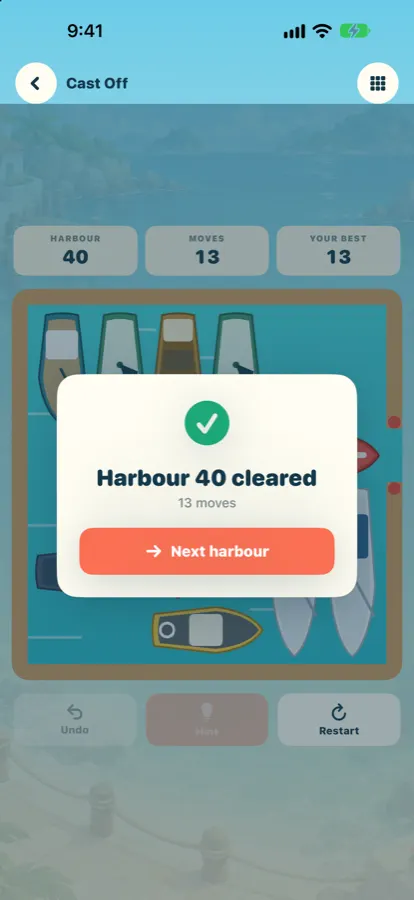
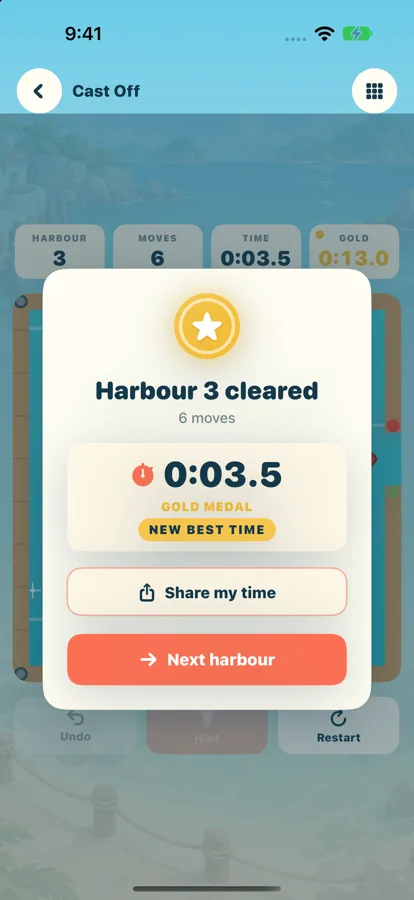
Dockside races the clock, Raccoon Raid gets the Golden Snack: new copy and screenshots

diff --git a/index.html b/index.html
@@ -574,9 +574,9 @@ html:not(.js) .app .close, html:not(.js) .app .bar, html:not(.js) .app .cover, h
   <div class="phone" id="phone">
     <div class="screen" id="screen">
       <div class="wall" aria-hidden="true"><i></i><i></i><i></i><i></i></div>
-      <button class="island" id="island" type="button" aria-label="Now testing: Raccoon Raid. Open it">
+      <button class="island" id="island" type="button" aria-label="New in Raccoon Raid: the Golden Snack. Open it">
         <span class="isl-compact" aria-hidden="true"><img src="assets/games/rr-icon.webp" alt=""><i class="live-dot"></i></span>
-        <span class="isl-full" aria-hidden="true"><img src="assets/games/rr-icon.webp" alt=""><span><small>Now testing</small><b>Raccoon Raid</b></span><span class="wave"><i></i><i></i><i></i><i></i></span></span>
+        <span class="isl-full" aria-hidden="true"><img src="assets/games/rr-icon.webp" alt=""><span><small>New: Golden Snack</small><b>Raccoon Raid</b></span><span class="wave"><i></i><i></i><i></i><i></i></span></span>
       </button>
       <div class="glare" id="glare" aria-hidden="true"></div>
       <div class="status" aria-hidden="true">
@@ -624,9 +624,9 @@ html:not(.js) .app .close, html:not(.js) .app .bar, html:not(.js) .app .cover, h
                   <h2 id="board-h">Release board</h2>
                   <ul>
                     <li><button type="button" data-open="tap-against-time"><img src="assets/games/tat-icon.webp" alt=""><b>Tap Against Time</b><span class="pill live">On the App Store</span></button></li>
-                    <li><button type="button" data-open="dockside"><img src="assets/games/dockside-icon.webp" alt=""><b>Dockside: Cast Off</b><span class="pill review">In review</span></button></li>
+                    <li><button type="button" data-open="dockside"><img src="assets/games/dockside-icon.webp" alt=""><b>Dockside: Cast Off</b><span class="pill review">Coming soon</span></button></li>
                     <li><button type="button" data-open="circuit-weave"><img src="assets/games/cw-icon.webp" alt=""><b>Circuit Weave</b><span class="pill review">Timed update</span></button></li>
-                    <li><button type="button" data-open="raccoon-raid"><img src="assets/games/rr-icon.webp" alt=""><b>Raccoon Raid</b><span class="pill test">In testing</span></button></li>
+                    <li><button type="button" data-open="raccoon-raid"><img src="assets/games/rr-icon.webp" alt=""><b>Raccoon Raid</b><span class="pill test">Coming soon</span></button></li>
                     <li><button type="button" data-open="shadowbound"><img src="assets/games/sb-icon.webp" alt=""><b>Shadowbound</b><span class="pill dev">In development</span></button></li>
                   </ul>
                 </section>
@@ -681,9 +681,9 @@ html:not(.js) .app .close, html:not(.js) .app .bar, html:not(.js) .app .cover, h
         <div class="lock-date" id="lock-date"></div>
         <div class="lock-time" id="lock-time" aria-hidden="true">9:41</div>
         <div class="notes" aria-label="Notifications">
-          <button class="note glass" type="button" data-app="raccoon-raid" style="--n:0"><img src="assets/games/rr-icon.webp" alt=""><span><span class="meta"><span>Raccoon Raid</span><span>now</span></span><b>Now in testing</b><span class="body">Wreck the campsite. Coming to the App Store.</span></span></button>
+          <button class="note glass" type="button" data-app="raccoon-raid" style="--n:0"><img src="assets/games/rr-icon.webp" alt=""><span><span class="meta"><span>Raccoon Raid</span><span>now</span></span><b>New: the Golden Snack</b><span class="body">Hit it for a Sugar Rush. Double loot, real raccoons.</span></span></button>
           <button class="note glass" type="button" data-app="circuit-weave" style="--n:1"><img src="assets/games/cw-icon.webp" alt=""><span><span class="meta"><span>Circuit Weave</span><span>now</span></span><b>Now with a timer</b><span class="body">Every circuit is a race. Beat your best time.</span></span></button>
-          <button class="note glass" type="button" data-app="dockside" style="--n:2"><img src="assets/games/dockside-icon.webp" alt=""><span><span class="meta"><span>Dockside</span><span>1d ago</span></span><b>In App Store review</b><span class="body">Free the red boat. 150 harbours.</span></span></button>
+          <button class="note glass" type="button" data-app="dockside" style="--n:2"><img src="assets/games/dockside-icon.webp" alt=""><span><span class="meta"><span>Dockside</span><span>now</span></span><b>Race the clock</b><span class="body">Medals, a ghost of your best run, and share your time.</span></span></button>
           <button class="note glass" type="button" data-app="tap-against-time" style="--n:3" data-play="1"><img src="assets/games/tat-icon.webp" alt=""><span><span class="meta"><span>Tap Against Time</span><span></span></span><b>Free on the App Store</b><span class="body">Tap to play a round right here.</span></span></button>
         </div>
         <button class="lock-foot" type="button" id="lock-foot"><span>Swipe up to open</span></button>
@@ -729,10 +729,10 @@ html:not(.js) .app .close, html:not(.js) .app .bar, html:not(.js) .app .cover, h
         <div class="scroll">
           <div class="app-head">
             <img src="assets/games/dockside-icon.webp" alt="" width="96" height="96">
-            <div><h2 id="h-dock">Dockside: Cast Off</h2><div class="status-line">In App Store review</div><span class="get wait">Coming once Apple approves it</span></div>
+            <div><h2 id="h-dock">Dockside: Cast Off</h2><div class="status-line">New: race the clock</div><span class="get wait">Coming soon to the App Store</span></div>
           </div>
-          <p class="about-text">A crowded harbour and one way out. Slide the boats along their lanes and free the red one. 150 harbours, plus a new one every day.</p>
-          <div class="shots"><img src="assets/games/dockside-1.webp" alt="A Dockside harbour full of boats, with the red boat waiting to get out" width="414" height="900" loading="lazy"><img src="assets/games/dockside-2.webp" alt="Dockside after a harbour is cleared" width="414" height="900" loading="lazy"></div>
+          <p class="about-text">A crowded harbour and one way out. Slide the boats along their lanes and free the red one, against the clock. Every harbour has gold, silver and bronze times, a ghost of your best run to race, and a card to share your time. 150 harbours, plus a new one every day with its own fastest-time leaderboard.</p>
+          <div class="shots"><img src="assets/games/dockside-1.webp" alt="A Dockside harbour mid-solve, the faint ghost of your best run sliding alongside, the clock at 0:02.4 and gold at 0:21.0" width="414" height="900" loading="lazy"><img src="assets/games/dockside-2.webp" alt="Harbour 3 cleared in 0:03.5 with a gold medal and a new best time" width="414" height="900" loading="lazy"><img src="assets/games/dockside-3.webp" alt="A packed harbour 40 with the red boat boxed in" width="414" height="900" loading="lazy"></div>
           <div class="links"><a href="dockside-privacy.html">Privacy policy</a></div>
         </div>
         <button class="close glass" type="button" aria-label="Close Dockside"><svg viewBox="0 0 14 14" stroke="#fff" stroke-width="2" stroke-linecap="round"><path d="M2 2l10 10M12 2 2 12"/></svg></button>
@@ -759,10 +759,10 @@ html:not(.js) .app .close, html:not(.js) .app .bar, html:not(.js) .app .cover, h
         <div class="scroll">
           <div class="app-head">
             <img src="assets/games/rr-icon.webp" alt="" width="96" height="96">
-            <div><h2 id="h-rr">Raccoon Raid: Campsite Chaos</h2><div class="status-line">In testing</div><span class="get wait">Coming to the App Store</span></div>
+            <div><h2 id="h-rr">Raccoon Raid: Campsite Chaos</h2><div class="status-line">New: the Golden Snack</div><span class="get wait">Coming soon to the App Store</span></div>
           </div>
-          <p class="about-text">Load a raccoon into the slingshot and wreck the campsite. Raid coolers, pull off snack heists, wake the bear and take down the Ranger. 60 campsites across four worlds.</p>
-          <div class="shots wide"><video src="assets/video/rr-trailer.mp4" poster="assets/video/rr-trailer-poster.webp" width="960" height="443" muted loop playsinline controls preload="none" aria-label="Raccoon Raid trailer"></video><img src="assets/games/rr-1.webp" alt="Raccoon Raid mid-raid on a beach campsite, a combo banner flashing over the wreckage" width="900" height="414" loading="lazy"><img src="assets/games/rr-2.webp" alt="A Raccoon Raid boss campsite" width="900" height="414" loading="lazy"></div>
+          <p class="about-text">Load a raccoon into the slingshot and wreck the campsite. Raid coolers, pull off snack heists, wake the bear and take down the Ranger. Every raid hides one golden snack: hit it for a Sugar Rush and double loot for eight seconds. Real raccoon voices, 60 campsites across four worlds.</p>
+          <div class="shots wide"><video src="assets/video/rr-trailer.mp4" poster="assets/video/rr-trailer-poster.webp" width="960" height="443" muted loop playsinline controls preload="none" aria-label="Raccoon Raid trailer"></video><img src="assets/games/rr-1.webp" alt="Raccoon Raid at a lakeside camp during a Sugar Rush, a combo x3 and RAID COMPLETE flashing over the wreckage" width="900" height="414" loading="lazy"><img src="assets/games/rr-2.webp" alt="The Park Ranger Citation after a three-star raid: coolers raided, golden snacks eaten, Ranger knocked out" width="900" height="414" loading="lazy"></div>
           <div class="links"><a href="raccoon-raid-privacy.html">Privacy policy</a></div>
         </div>
         <button class="close glass" type="button" aria-label="Close Raccoon Raid"><svg viewBox="0 0 14 14" stroke="#fff" stroke-width="2" stroke-linecap="round"><path d="M2 2l10 10M12 2 2 12"/></svg></button>
@@ -1262,10 +1262,10 @@ html:not(.js) .app .close, html:not(.js) .app .bar, html:not(.js) .app .cover, h
   // ---- notification banners: a few drop in while you look around
   var NEWS = [
     { app: "circuit-weave", img: "assets/games/cw-icon.webp", name: "Circuit Weave", title: "Race the clock", body: "Circuit Weave is now timed. Beat your best." },
-    { app: "raccoon-raid", img: "assets/games/rr-icon.webp", name: "Raccoon Raid", title: "The bear is awake", body: "Raccoon Raid is in testing. Coming to the App Store." },
+    { app: "raccoon-raid", img: "assets/games/rr-icon.webp", name: "Raccoon Raid", title: "Sugar Rush!", body: "Raccoon Raid hides a golden snack in every raid. Coming soon." },
     { app: "shadowbound", img: "assets/games/sb-icon.webp", name: "Shadowbound", title: "The tower lies", body: "500 towers, one ninja. Shadowbound is coming soon." },
     { app: "tap-against-time", img: "assets/games/tat-icon.webp", name: "Tap Against Time", title: "Beat your best", body: "Play a quick round right here.", play: true },
-    { app: "dockside", img: "assets/games/dockside-icon.webp", name: "Dockside", title: "Harbour traffic", body: "Dockside: Cast Off is in App Store review." }
+    { app: "dockside", img: "assets/games/dockside-icon.webp", name: "Dockside", title: "Beat the ghost", body: "Dockside now races the clock: medals and a ghost of your best run." }
   ];
   var banner = document.getElementById("banner"), bNow = null, bIndex = 0, bShown = 0, bTimer = 0, bHide = 0, bSwiped = false;
   var bannerSpring = new Spring(function (y) { banner.style.transform = "translateY(" + lerp(-170, 0, y).toFixed(2) + "%)"; });
@@ -1314,9 +1314,9 @@ html:not(.js) .app .close, html:not(.js) .app .bar, html:not(.js) .app .cover, h
   };
   var IDX = [
     { t: "Tap Against Time", s: "Game · Free on the App Store", img: "assets/games/tat-icon.webp", k: "tap time circle reflex", app: "tap-against-time" },
-    { t: "Dockside: Cast Off", s: "Game · In App Store review", img: "assets/games/dockside-icon.webp", k: "boats harbour harbor puzzle", app: "dockside" },
+    { t: "Dockside: Cast Off", s: "Game · Coming soon", img: "assets/games/dockside-icon.webp", k: "boats harbour harbor puzzle timer clock medal gold ghost race share leaderboard", app: "dockside" },
     { t: "Circuit Weave", s: "Game · Coming soon", img: "assets/games/cw-icon.webp", k: "puzzle lines pairs wires timer timed race", app: "circuit-weave" },
-    { t: "Raccoon Raid: Campsite Chaos", s: "Game · In testing", img: "assets/games/rr-icon.webp", k: "slingshot bear camp raccoon trailer video", app: "raccoon-raid" },
+    { t: "Raccoon Raid: Campsite Chaos", s: "Game · Coming soon", img: "assets/games/rr-icon.webp", k: "slingshot bear camp raccoon trailer video golden snack sugar rush", app: "raccoon-raid" },
     { t: "Shadowbound", s: "Game · In development", img: "assets/games/sb-icon.webp", k: "ninja wall jump tower rage hard climb", app: "shadowbound" },
     { t: "Play Tap Against Time", s: "A quick round, right here", img: "assets/games/tat-icon.webp", k: "play game round score mini", app: "tap-against-time", play: true },
     { t: "About ANTTECH", s: "The studio", img: "assets/anttech-logo.png", k: "studio developer north carolina contact", app: "about" },
